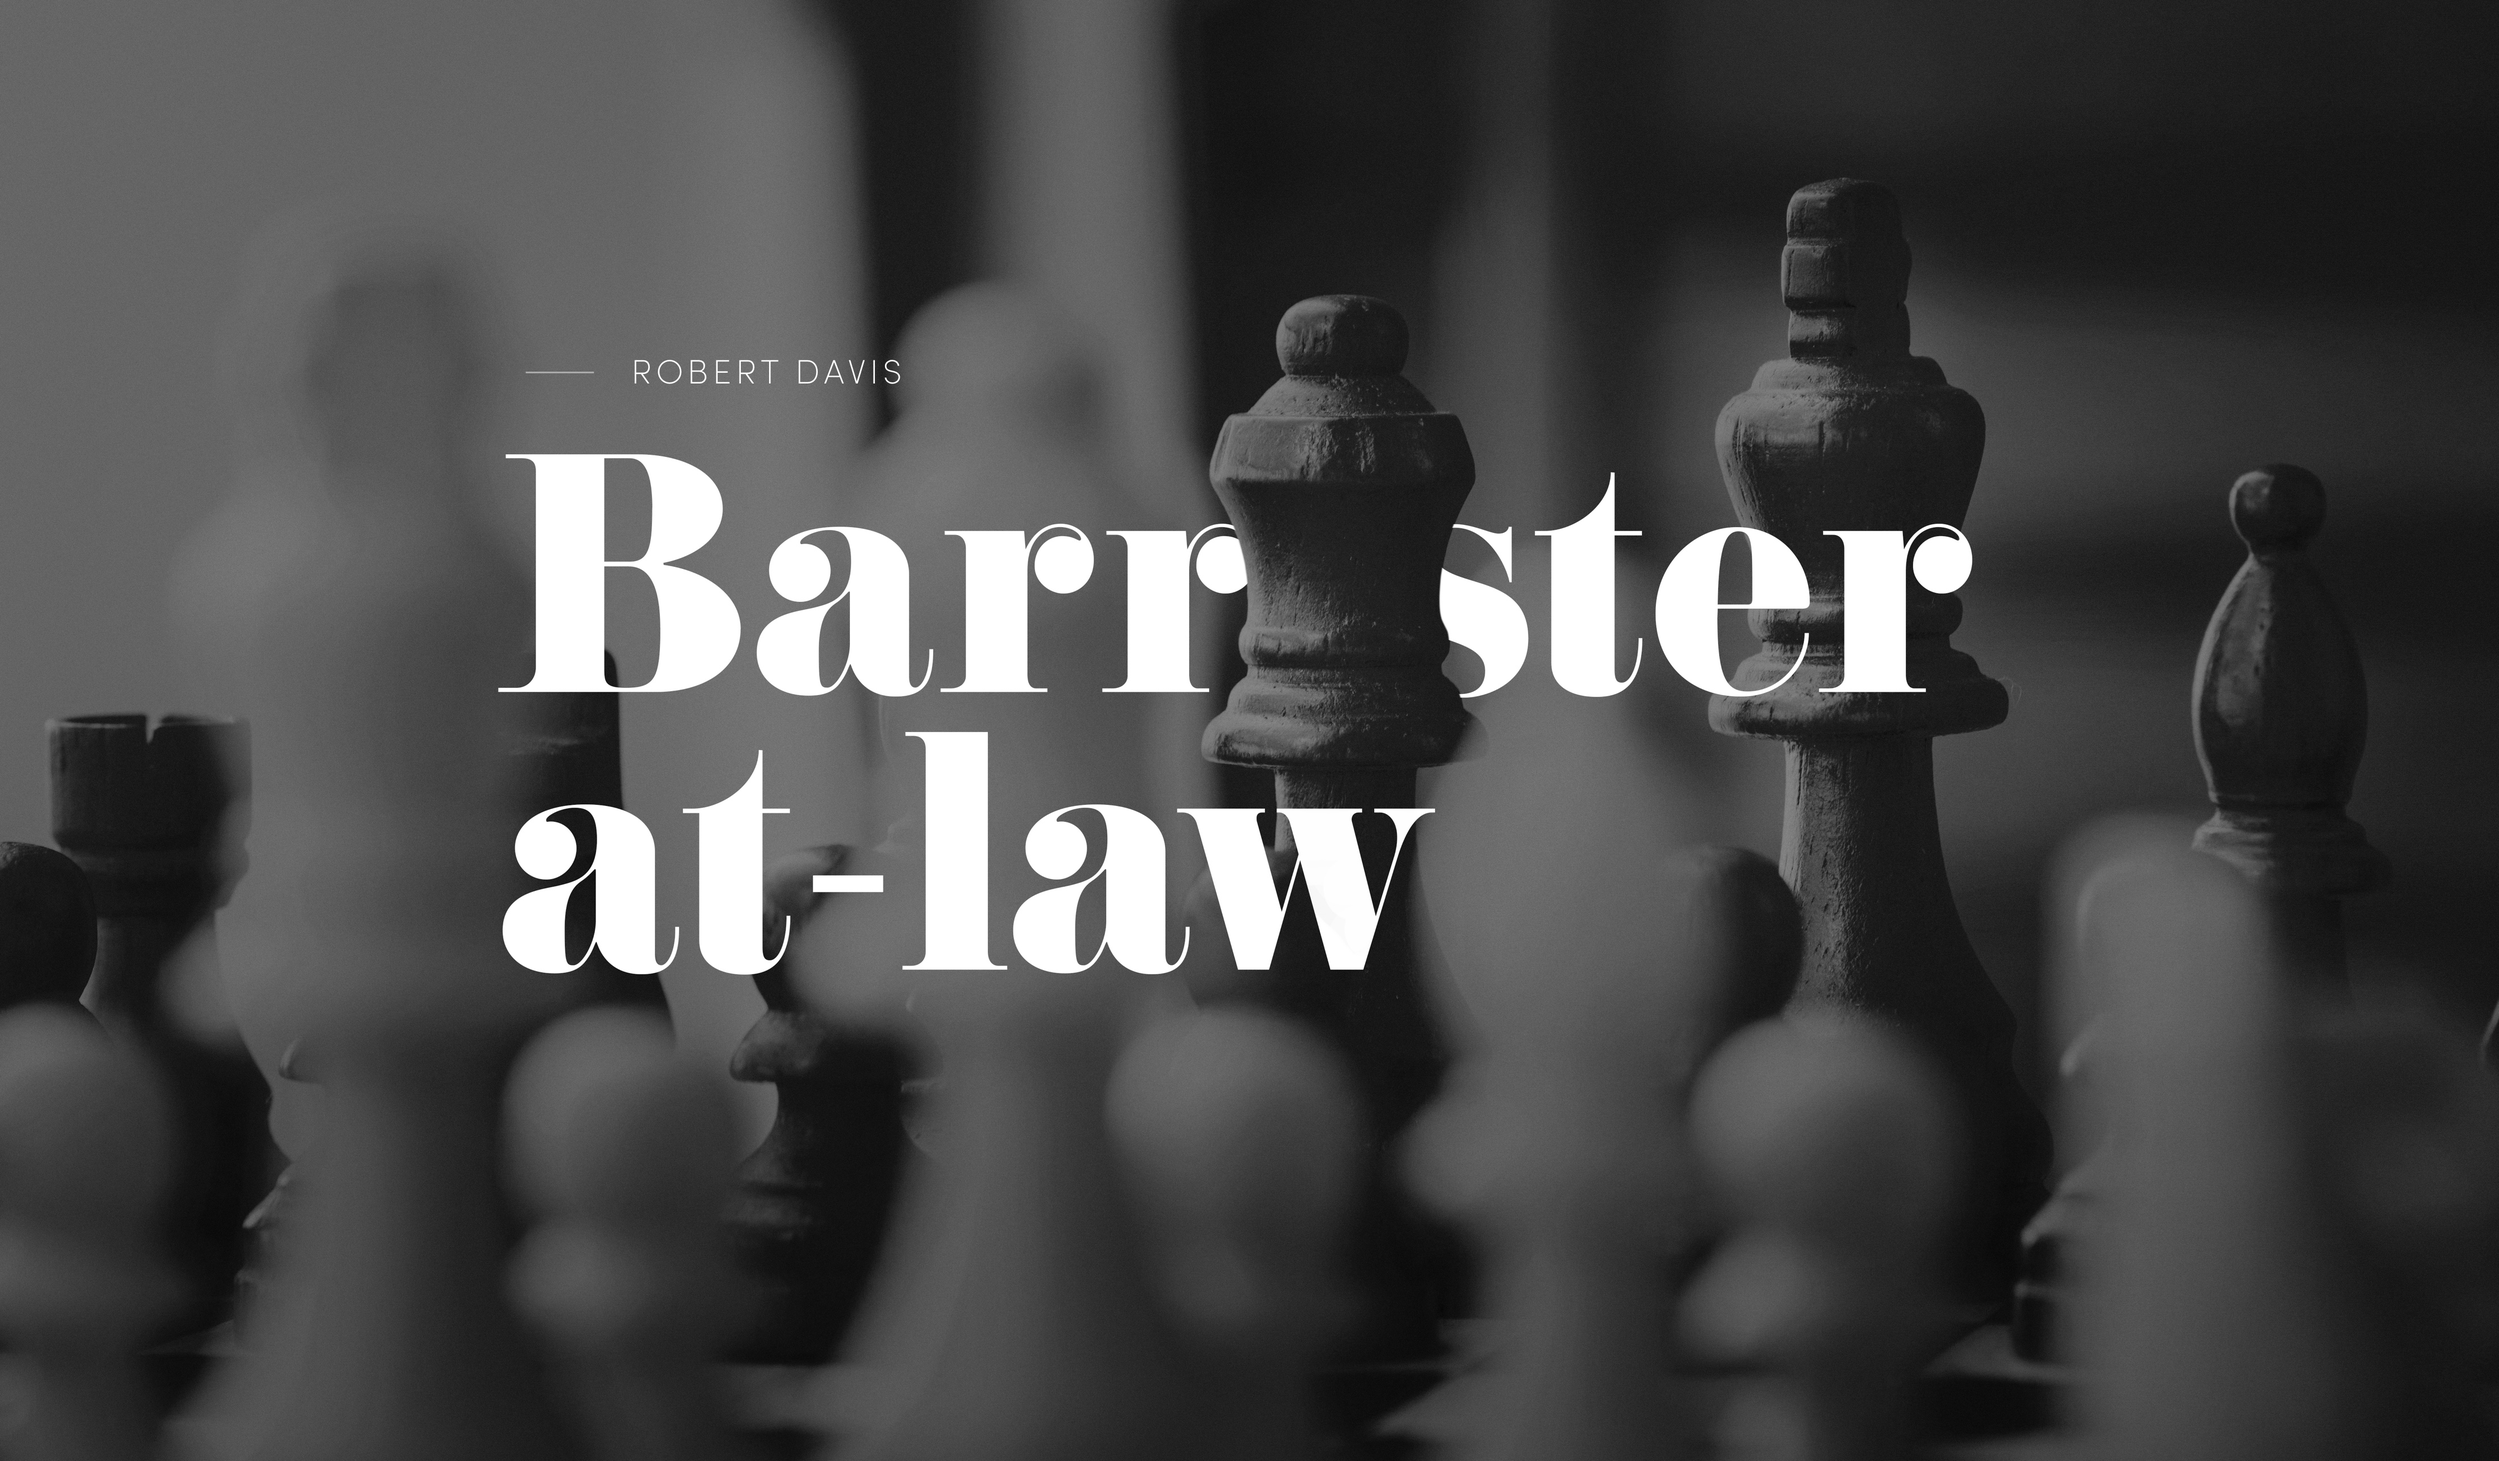
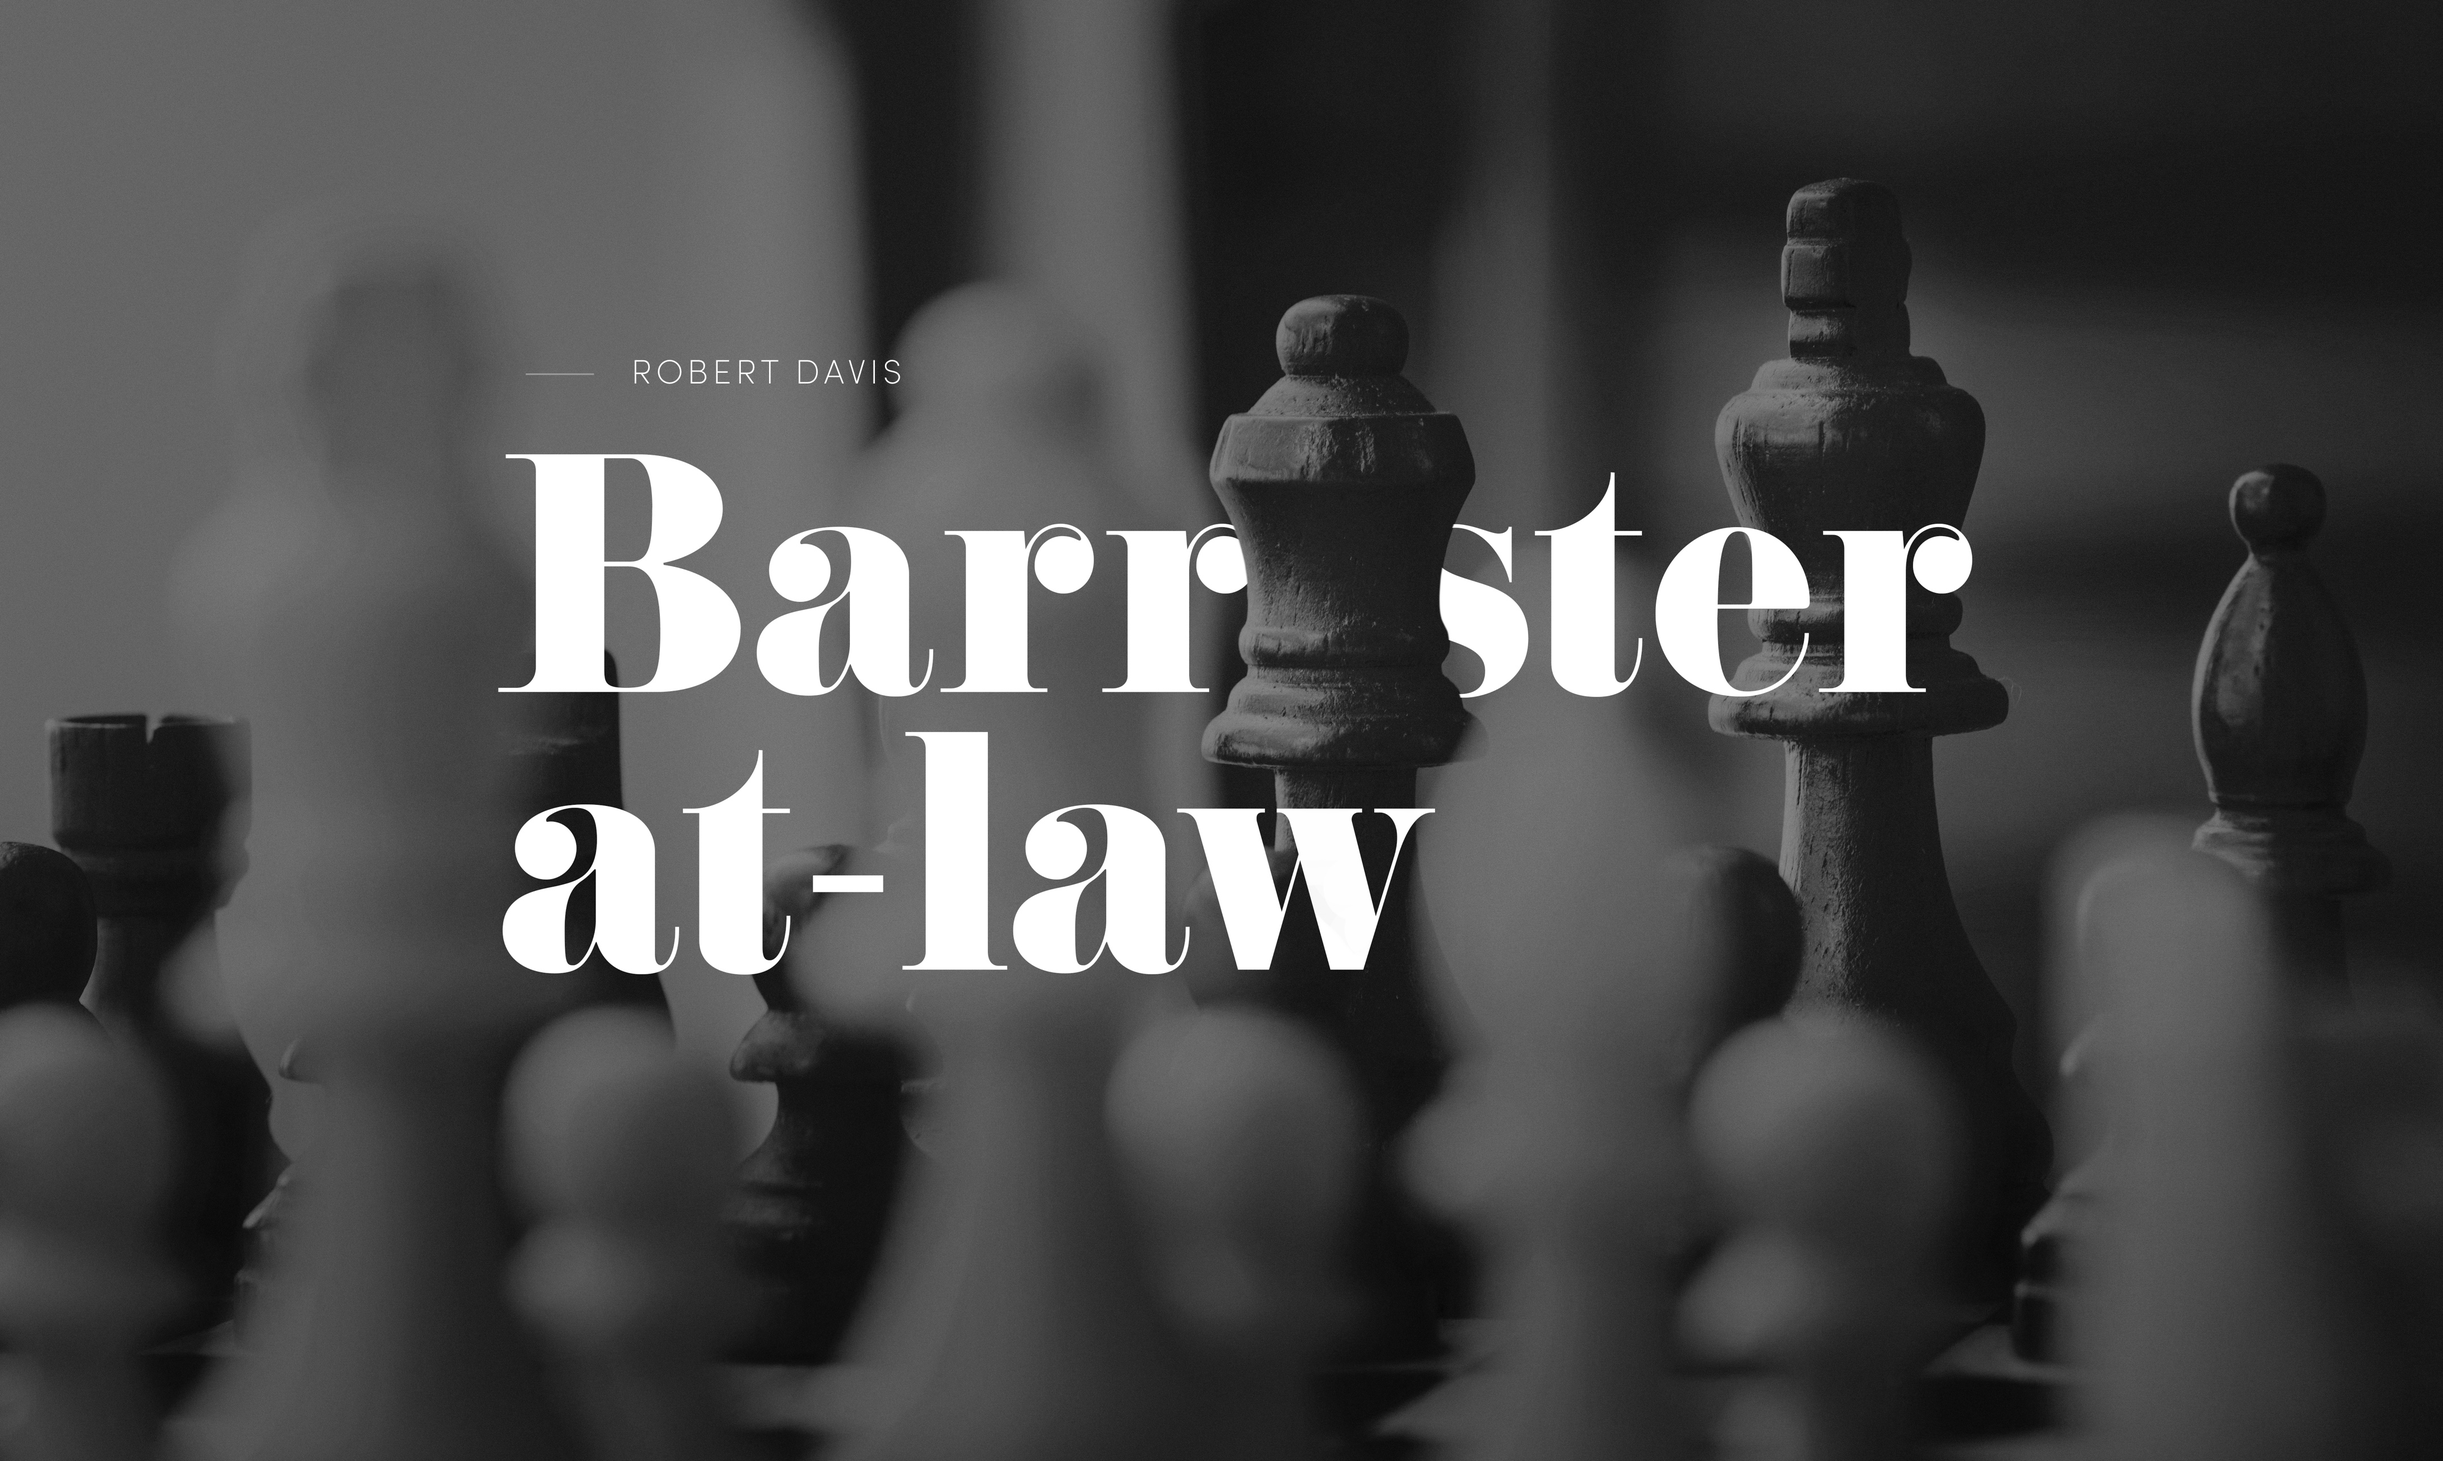
content changes, accordion fixes, "more" section

diff --git a/src/pages/index.js b/src/pages/index.js
@@ -73,7 +73,7 @@ const IndexPage = () => (
         <LeftColumn
           content={
             <p>
-              Robert began his career in Queensland and New South Wales in 1979 then worked for many years as a Litigation Solicitor accumulating legal experience and ongoing academic qualifications before being called to the Queensland Bar in 2007. With extensive experience and ongoing academic qualifications, Robert began his career in Queensland and New South Wales in 1979.
+              With extensive experience and ongoing academic qualifications, Robert began his career in Queensland and New South Wales in 1979 then worked for many years as a Litigation Solicitor before being called to the Queensland Bar in 2007.
             </p>
           }
         />
@@ -81,7 +81,7 @@ const IndexPage = () => (
         <RightColumn
           content={
             <p>
-              He then worked for many years as a Litigation Solicitor before being called to the Queensland Bar in 2007. Over his career he has been featured in many publications and has served as President of the Queensland Law Society and the Australian Plaintiff Lawyers Association (now the Australian Lawyers Alliance). He has has appeared in many high profile cases in Australia.
+              Over his career he has been featured in many publications and has served as President of the Queensland Law Society and the Australian Plaintiff Lawyers Association (now the Australian Lawyers Alliance). He has has appeared in many high profile cases in Australia.
             </p>
           }
         />

diff --git a/src/components/Opener.css b/src/components/Opener.css
@@ -9,6 +9,27 @@
   width: 100%;
 }
 
+.opener .cover.hide{
+  display: none;
+}
+
+/* .opener .float{
+  position: absolute;
+  width: 60%;
+  top: 20%;
+  left: 0;
+  right: 0;
+  margin: auto;
+}
+
+.opener .float h3{
+  font-size: 1.2rem;
+}
+
+.opener .float h3:before{
+  top: 1.4rem;
+} */
+
 .opener .large{
   position: absolute;
   z-index: 999;
@@ -27,6 +48,7 @@
 
 .opener .overlay{
   z-index: 0;
+  top: 0;
   background: linear-gradient(#1D1E20, transparent 35%, #1D1E20);
 }
 
@@ -36,15 +58,23 @@
   .opener .overlay{
     height: 80vw;
   }
+
+  .opener .cover{
+    display: none;
+  }
+
+  .opener .cover.hide{
+    display: block;
+  }
 }
 
 @media screen and (max-width: 670px){
   .opener{
-    margin-bottom: 8rem;
+    margin-bottom: 4rem;
   }
-
+  
   .opener .large{
-    bottom: -4rem;
+    bottom: 0;
     right: 0;
     left: 0;
   }

diff --git a/src/layouts/index.css b/src/layouts/index.css
@@ -171,7 +171,7 @@ img.cover{
 /* content */
 
 .content{
-  margin-top: 1.5rem;
+  /* margin-top: 1.5rem; */
 }
 
 .content ul img{
@@ -227,10 +227,6 @@ img.cover{
     height: 15rem;
   }
 
-  .section{
-    margin-top: 7rem;
-  }
-
   .small{
     padding: 0 2rem;
   }
@@ -268,7 +264,7 @@ img.cover{
   }
 
   .section{
-    margin-bottom: 3rem;
+    margin-bottom: 5rem;
   }
 
   .column{

diff --git a/src/components/Event.css b/src/components/Event.css
@@ -139,11 +139,16 @@
     content: '';
     position: absolute;
     display: block;
-    width: 4rem;
-    height: 1px;
+    width: 0;
+    height: 1px !important;
     background: #FFF;
     top: 0.6rem;
     left: 0 !important;
     right: inherit;
+  }
+
+  .event.active h4:after,
+  .event.now.active h4:after{
+    width: 4rem;
   }
 }

diff --git a/src/components/Button.js b/src/components/Button.js
@@ -10,12 +10,13 @@ class Button extends Component {
     const { page, text } = this.props
 
     return (
+      
+    <button>
       <Link to={page}>
-        <button>
           <p>{text}</p>
           <div className="circle"></div>
-        </button>
       </Link>
+    </button>
 
     )
   }

diff --git a/src/components/More.css b/src/components/More.css
@@ -1,5 +1,5 @@
-.more .small.content{
-  margin-top: -11rem;
+.more .title{
+  overflow: hidden;
 }
 
 .more .title h2{
@@ -8,8 +8,8 @@
   padding-bottom: 5rem;
 }
 
-.more button{
-  margin-top: 3rem;
+.more .small.content{
+  margin-top: -11rem;
 }
 
 @media screen and (max-width: 670px){

diff --git a/src/components/Opener.js b/src/components/Opener.js
@@ -12,6 +12,7 @@ const Opener = () => (
       </div>
 
       <div className="overlay"></div>
+      <img className="cover hide" src="/img/hero-home-res.jpg" alt="" />
       <img className="cover" src="/img/hero-home.jpg" alt="" />
       <div className="clear"></div>
     </div>

diff --git a/src/components/Accordion.css b/src/components/Accordion.css
@@ -3,7 +3,7 @@
 }
 
 .accordion .item{
-  width: 100%;
+  width: calc(100% - 4rem);
   margin: 1rem 0;
   padding: 1.5rem 2rem;
   background: rgba(0, 0, 0, 0.3);
@@ -43,5 +43,5 @@
 }
 
 .accordion .item.active .expand{
-  max-height: 1000px;
+  max-height: 10000px;
 }

diff --git a/src/components/More.js b/src/components/More.js
@@ -8,7 +8,7 @@ import RightColumn from '../components/RightColumn'
 
 const More = (props) => (
 
-  <div className="section more">
+  <div className="more">
     <div className="small title">
       <div className="small left">
         <h2>find out more</h2>

diff --git a/src/components/IconList.css b/src/components/IconList.css
@@ -14,3 +14,13 @@ ul.icons li img{
 ul.icons li:before{
   margin-top: 5.25rem;
 }
+
+@media screen and (max-width: 670px){
+  .column.left ul{
+    margin-top: 2rem;
+  }
+
+  .column.right ul{
+    margin-top: 0 !important;
+  }
+}

diff --git a/src/components/LargeTitle.css b/src/components/LargeTitle.css
@@ -23,6 +23,10 @@
 }
 
 @media screen and (max-width: 670px){
+  .large.margin-top{
+    margin-top: 8rem;
+  }
+
   .title .small{
     top: 1.2rem;
   }

diff --git a/src/components/Menu.css b/src/components/Menu.css
@@ -36,6 +36,10 @@
 }
 
 @media screen and (max-width: 400px){
+  .menu{
+    padding: 2rem 0 5rem;
+  }
+
   .menu .large{
     max-width: 100%;
   }
